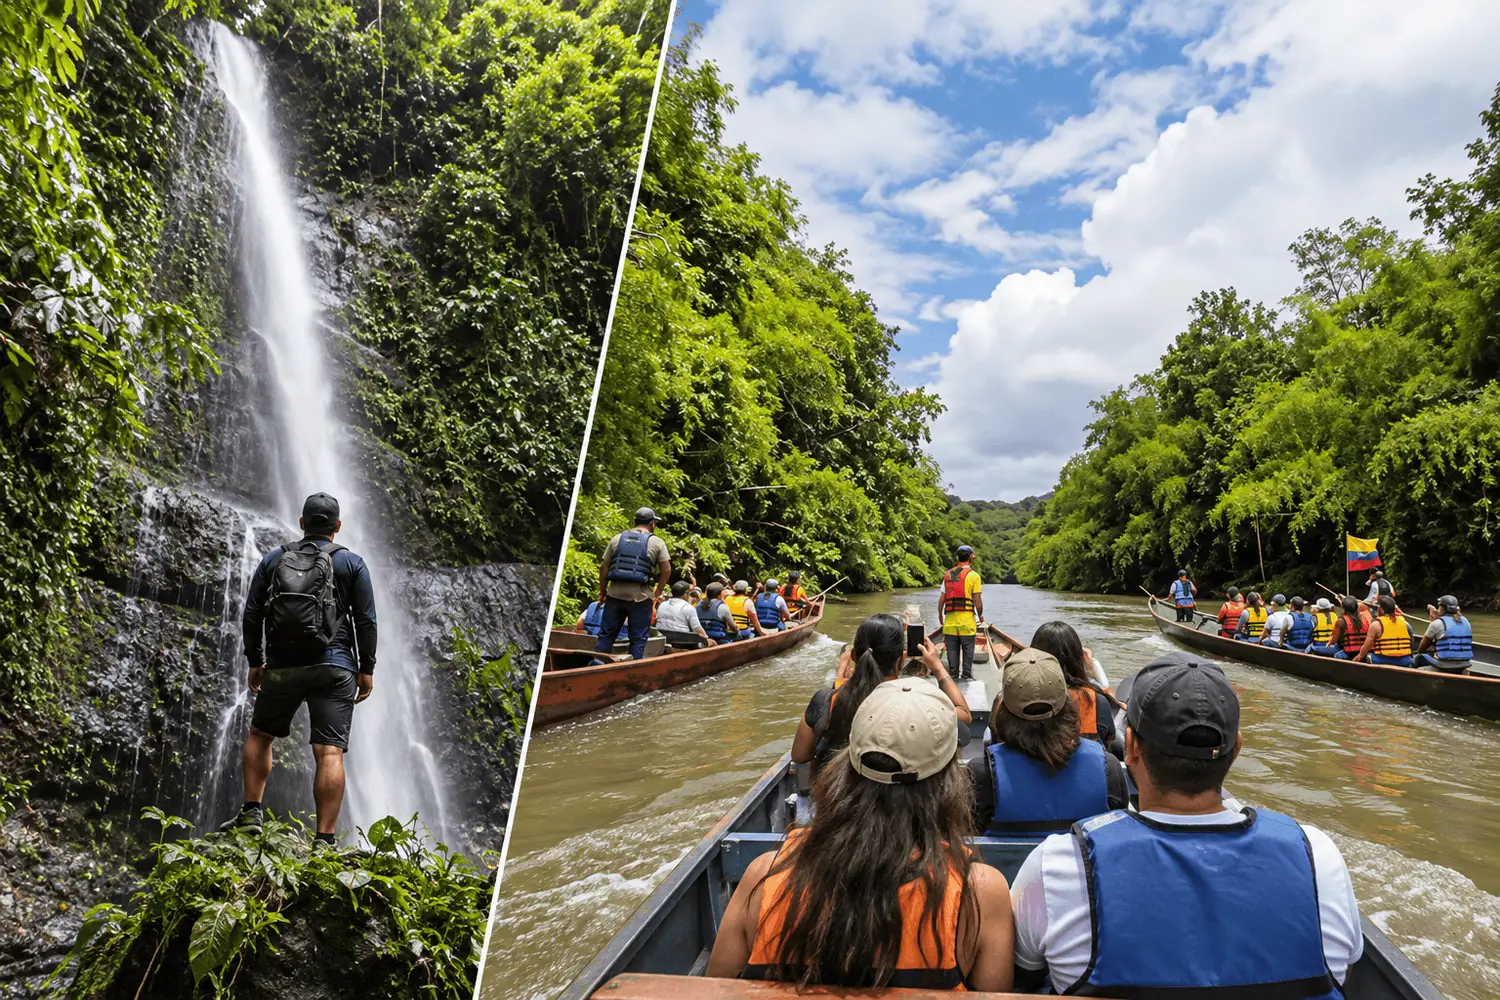
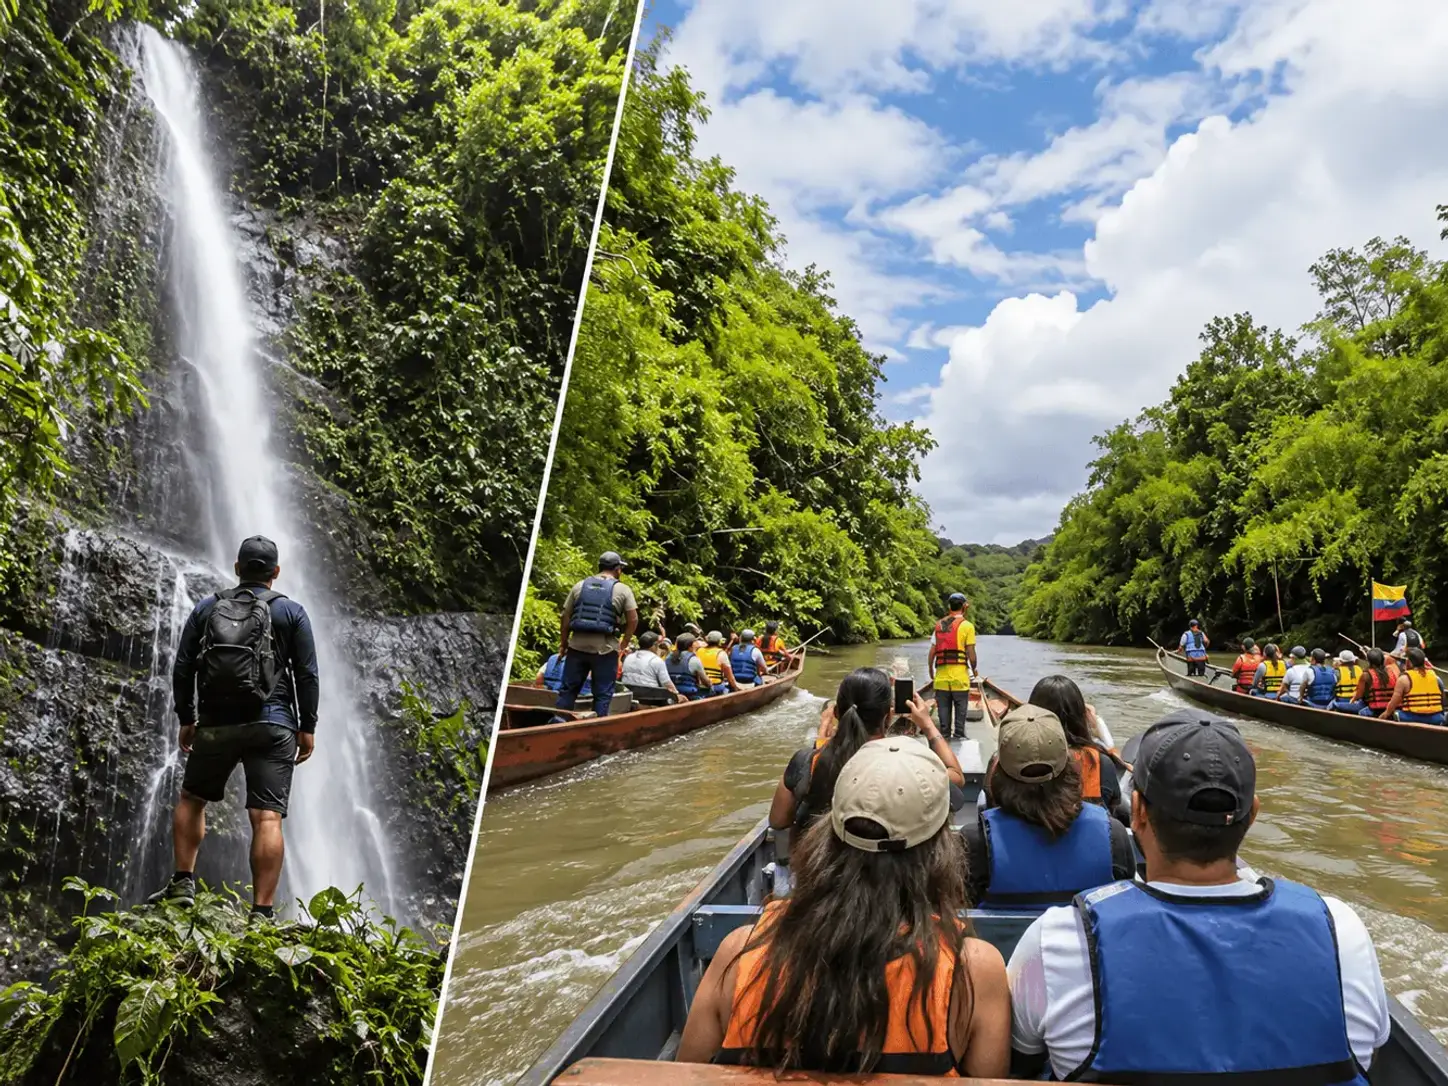
fix(pasadias): las cuatro fotos en 4:3 y tarjetas sin recorte irregular
- pasadia-relax: recorte 4:3 de la foto de visitantes (antes 2.17:1, se recortaba fuerte).
- pasadia-cascadas normalizada de 3:2 a 4:3.
- Tarjetas de pasadía y combos de hospedaje pasan de alto fijo a aspect-[4/3].

diff --git a/src/app/(public)/hospedaje/page.tsx b/src/app/(public)/hospedaje/page.tsx
@@ -215,7 +215,7 @@ export default function HospedajePage() {
                   width={plan.image.w}
                   height={plan.image.h}
                   sizes="(min-width: 768px) 33vw, 100vw"
-                  className="h-44 w-full object-cover"
+                  className="aspect-[4/3] w-full object-cover"
                 />
                 <div className="flex flex-1 flex-col gap-3 p-5">
                   <p className="text-xs font-semibold uppercase tracking-wide text-accent">

diff --git a/src/features/pasadias/data/plans.ts b/src/features/pasadias/data/plans.ts
@@ -39,7 +39,7 @@ export const PASS_PLANS: PassPlan[] = [
     description:
       'Piscina, deporte, juegos y almuerzo típico en un solo plan. La forma más fácil de salir de Cartago y pasar un día entero en el campo sin preocuparte por nada.',
     extras: [],
-    image: IMAGES['visitantes-pasadia'],
+    image: IMAGES['pasadia-relax'],
     imageAlt: 'Visitantes disfrutando su pasadía con almuerzo típico en Finca Hotel Loma Bonita',
   },
   {

diff --git a/src/app/(public)/pasadias/page.tsx b/src/app/(public)/pasadias/page.tsx
@@ -307,7 +307,7 @@ function PlanCard({ plan }: { plan: PassPlan }) {
           width={plan.image.w}
           height={plan.image.h}
           sizes="(min-width: 1024px) 50vw, 100vw"
-          className="h-48 w-full object-cover"
+          className="aspect-[4/3] w-full object-cover"
         />
         {plan.featured && (
           <span className="absolute left-3 top-3 rounded-full bg-accent px-3 py-1 text-xs font-semibold text-white">
